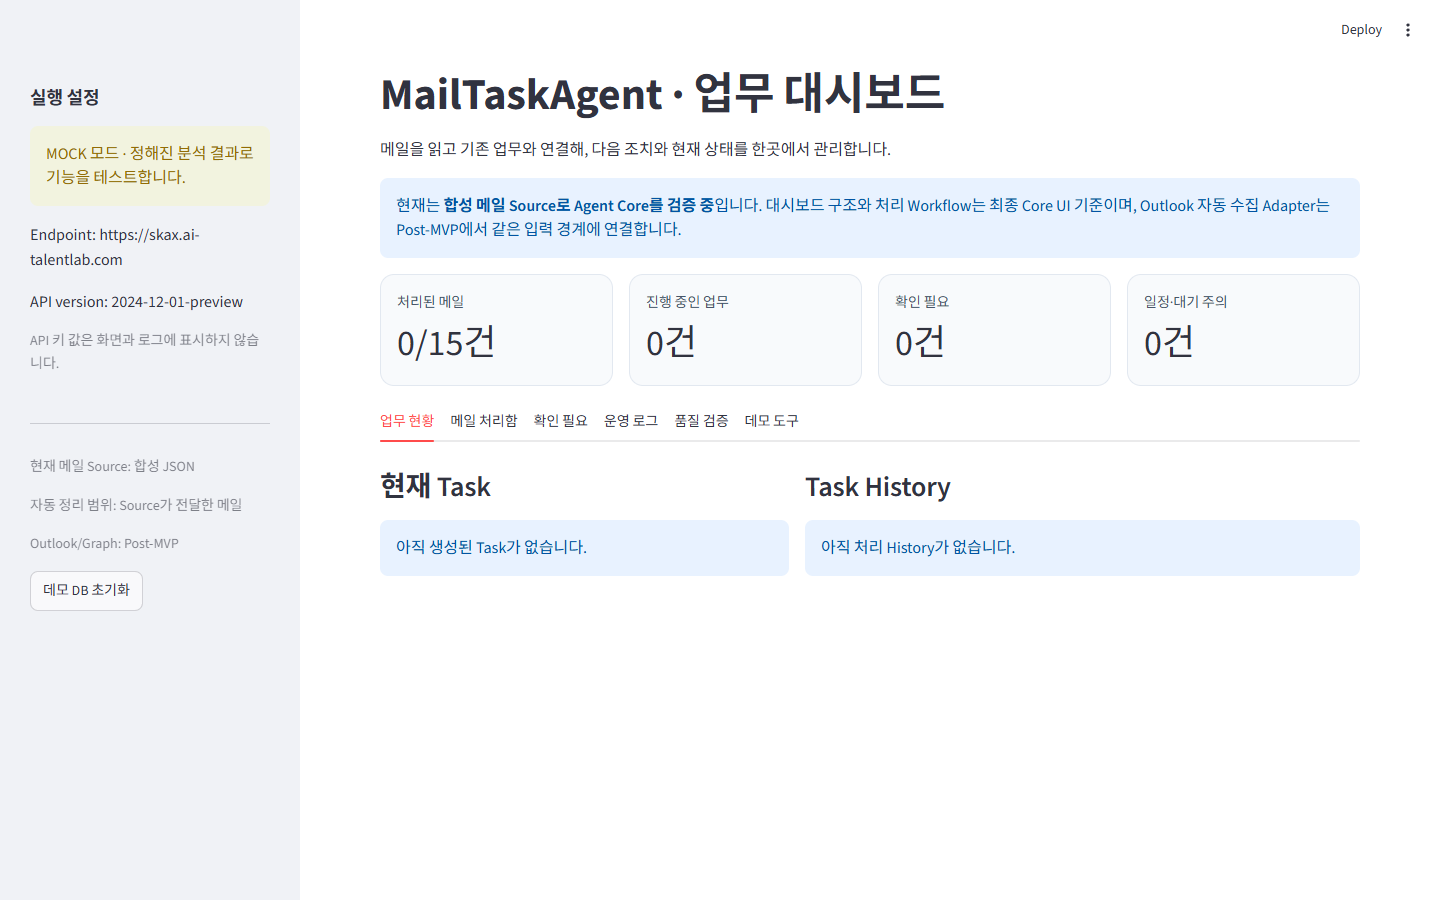
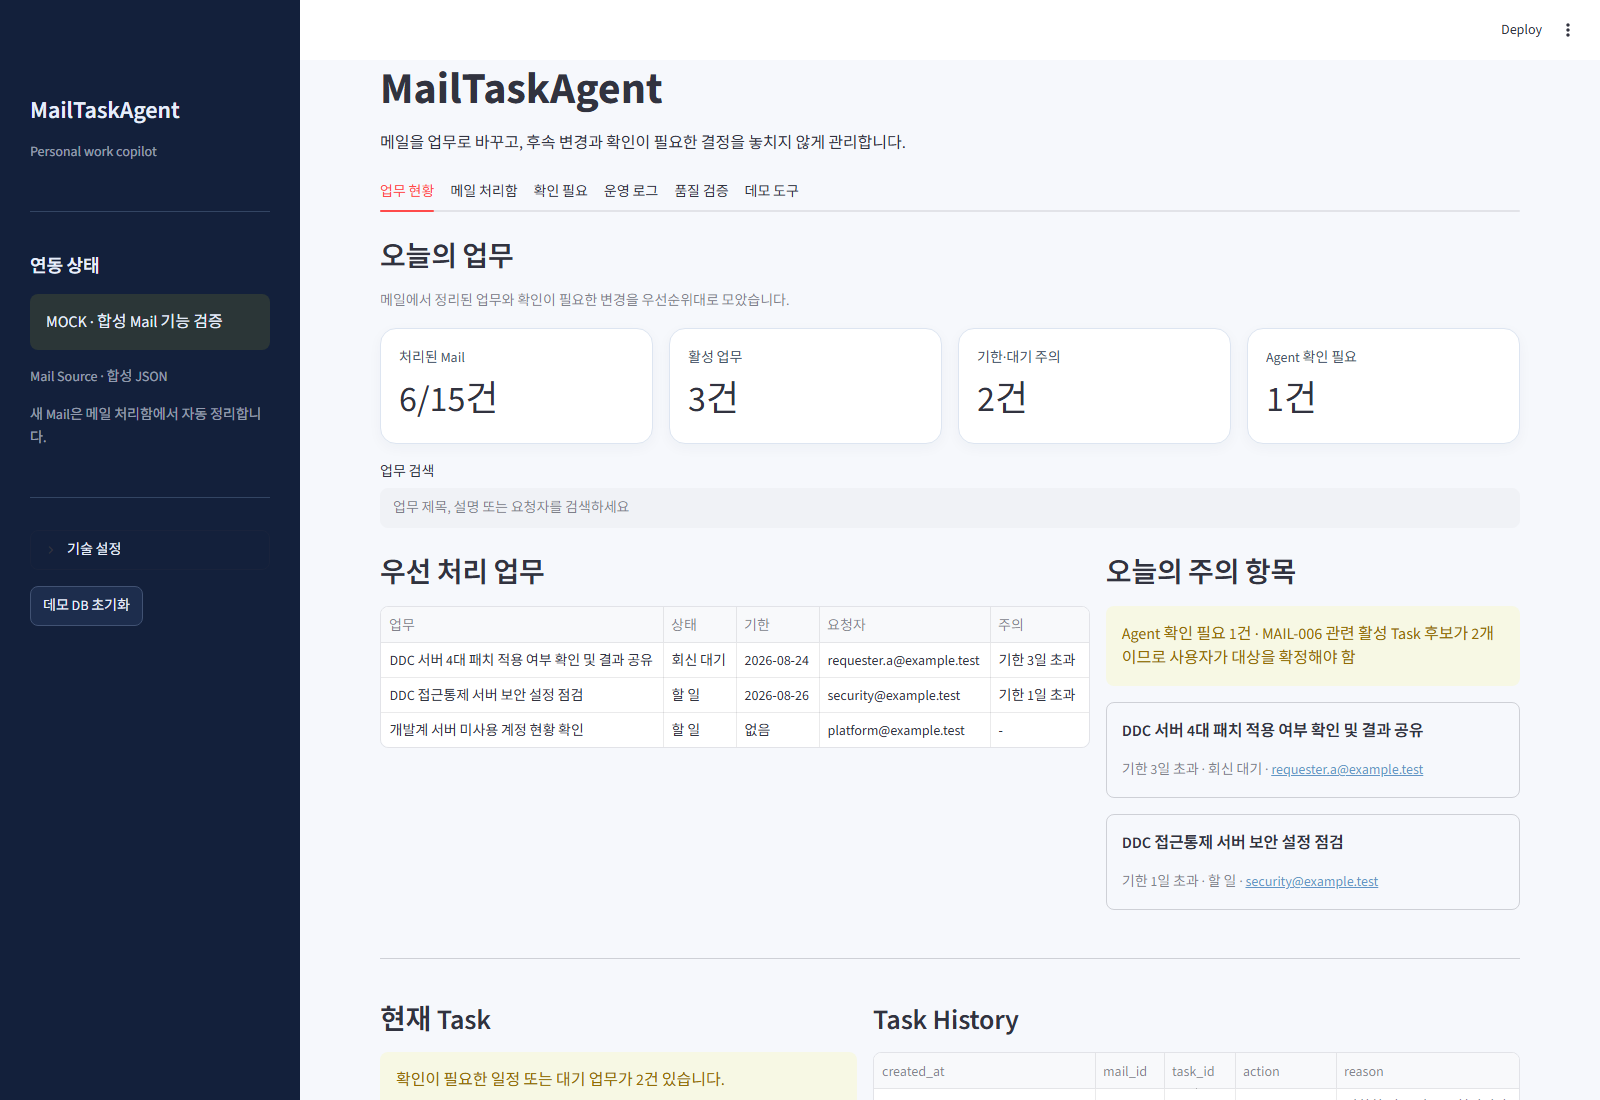
feat: polish final MVP dashboard

diff --git a/src/mailtaskagent/ui.py b/src/mailtaskagent/ui.py
@@ -78,16 +78,29 @@ def _apply_styles() -> None:
     st.markdown(
         """
         <style>
-        .block-container {padding-top: 2rem; padding-bottom: 3rem; max-width: 1500px;}
+        .stApp {background: #f6f8fc;}
+        .block-container {padding-top: 1.6rem; padding-bottom: 3rem; max-width: 1480px;}
+        [data-testid="stSidebar"] {background: #13203b; border-right: 0;}
+        [data-testid="stSidebar"] h1,
+        [data-testid="stSidebar"] h2,
+        [data-testid="stSidebar"] h3,
+        [data-testid="stSidebar"] p,
+        [data-testid="stSidebar"] label {color: #e7eefc;}
+        [data-testid="stSidebar"] button {
+            border-color: #415273; color: #e7eefc; background: #1d2d4d;
+        }
+        [data-testid="stSidebar"] hr {border-color: #334563;}
         [data-testid="stMetric"] {
-            background: #f8fafc; border: 1px solid #e2e8f0; border-radius: 14px;
-            padding: 14px 16px;
+            background: #ffffff; border: 1px solid #dde5f1; border-radius: 16px;
+            padding: 16px 18px; box-shadow: 0 4px 14px rgba(20, 40, 80, 0.04);
         }
         [data-testid="stMetricLabel"] {color: #475569;}
+        button[data-baseweb="tab"] {font-weight: 650; padding-left: 14px; padding-right: 14px;}
+        button[data-baseweb="tab"][aria-selected="true"] {color: #3157d5;}
         div[data-testid="stStatusWidget"] {border-radius: 14px;}
         .mail-card {
-            padding: 16px 18px; border-radius: 14px; background: #f8fafc;
-            border: 1px solid #e2e8f0; margin-bottom: 12px;
+            padding: 16px 18px; border-radius: 14px; background: #ffffff;
+            border: 1px solid #dde5f1; margin-bottom: 12px;
         }
         .mail-card small {color: #64748b;}
         </style>
@@ -150,6 +163,101 @@ def _task_attention(task: dict) -> str:
         if waiting_days >= 3:
             return f"회신 {waiting_days}일 대기"
     return "-"
+
+
+def _task_priority(task: dict) -> tuple[int, str, str]:
+    attention = _task_attention(task)
+    if "초과" in attention:
+        rank = 0
+    elif "오늘" in attention or "남음" in attention:
+        rank = 1
+    elif "대기" in attention:
+        rank = 2
+    else:
+        rank = 3
+    return rank, task.get("due_date") or "9999-12-31", task["task_id"]
+
+
+def _render_product_dashboard(storage, total_mail_count: int) -> None:
+    tasks = storage.list_tasks()
+    pending_reviews = storage.list_pending_reviews()
+    processed_count = len(storage.list_processing_results())
+    active_tasks = [
+        task for task in tasks if task["status"] not in {"COMPLETED", "CANCELLED"}
+    ]
+    attention_tasks = [task for task in active_tasks if _task_attention(task) != "-"]
+
+    st.subheader("오늘의 업무")
+    st.caption("메일에서 정리된 업무와 확인이 필요한 변경을 우선순위대로 모았습니다.")
+    summary_1, summary_2, summary_3, summary_4 = st.columns(4)
+    summary_1.metric("처리된 Mail", f"{processed_count}/{total_mail_count}건")
+    summary_2.metric("활성 업무", f"{len(active_tasks)}건")
+    summary_3.metric("기한·대기 주의", f"{len(attention_tasks)}건")
+    summary_4.metric("Agent 확인 필요", f"{len(pending_reviews)}건")
+
+    search_text = st.text_input(
+        "업무 검색",
+        placeholder="업무 제목, 설명 또는 요청자를 검색하세요",
+        key="dashboard_task_search",
+    ).strip().casefold()
+    filtered_tasks = active_tasks
+    if search_text:
+        filtered_tasks = [
+            task
+            for task in active_tasks
+            if search_text
+            in " ".join(
+                filter(
+                    None,
+                    [task.get("title"), task.get("description"), task.get("requester")],
+                )
+            ).casefold()
+        ]
+
+    priority_col, attention_col = st.columns([1.7, 1])
+    with priority_col:
+        st.markdown("### 우선 처리 업무")
+        prioritized = sorted(filtered_tasks, key=_task_priority)
+        if prioritized:
+            priority_frame = pd.DataFrame(
+                [
+                    {
+                        "업무": task["title"],
+                        "상태": STATUS_LABELS.get(task["status"], task["status"]),
+                        "기한": task.get("due_date") or "없음",
+                        "요청자": task.get("requester") or "-",
+                        "주의": _task_attention(task),
+                    }
+                    for task in prioritized
+                ]
+            )
+            st.dataframe(priority_frame, width="stretch", hide_index=True)
+        elif search_text:
+            st.info("검색 조건에 맞는 활성 업무가 없습니다.")
+        else:
+            st.info("메일을 처리하면 우선순위 업무가 여기에 표시됩니다.")
+
+    with attention_col:
+        st.markdown("### 오늘의 주의 항목")
+        if pending_reviews:
+            first_review = pending_reviews[0]
+            st.warning(
+                f"Agent 확인 필요 {len(pending_reviews)}건 · "
+                f"{first_review['mail_id']} {first_review['proposal']['reason']}"
+            )
+        for task in sorted(attention_tasks, key=_task_priority)[:3]:
+            with st.container(border=True):
+                st.markdown(f"**{task['title']}**")
+                st.caption(
+                    f"{_task_attention(task)} · "
+                    f"{STATUS_LABELS.get(task['status'], task['status'])} · "
+                    f"{task.get('requester') or '요청자 없음'}"
+                )
+        if not pending_reviews and not attention_tasks:
+            st.success("지금 확인이 필요한 변경이나 일정 경고가 없습니다.")
+
+    st.divider()
+    _render_tasks_and_histories(storage)
 
 
 def _render_agent_result(result: dict) -> None:
@@ -1082,41 +1190,26 @@ def main() -> None:
     mails = load_mails(PROJECT_ROOT / "data" / "dummy_mails.json")
     mail_by_id = {mail.mail_id: mail for mail in mails}
 
-    st.title("MailTaskAgent · 업무 대시보드")
-    st.write("메일을 읽고 기존 업무와 연결해, 다음 조치와 현재 상태를 한곳에서 관리합니다.")
-
-    st.info(
-        "현재는 **합성 메일 Source로 Agent Core를 검증 중**입니다. "
-        "대시보드 구조와 처리 Workflow는 최종 Core UI 기준이며, "
-        "Outlook 자동 수집 Adapter는 Post-MVP에서 같은 입력 경계에 연결합니다."
-    )
-
-    tasks = storage.list_tasks()
-    pending_reviews = storage.list_pending_reviews()
-    processed_count = len(storage.list_processing_results())
-    active_tasks = [task for task in tasks if task["status"] not in {"COMPLETED", "CANCELLED"}]
-    attention_count = sum(_task_attention(task) != "-" for task in active_tasks)
-    summary_1, summary_2, summary_3, summary_4 = st.columns(4)
-    summary_1.metric("처리된 메일", f"{processed_count}/{len(mails)}건")
-    summary_2.metric("진행 중인 업무", f"{len(active_tasks)}건")
-    summary_3.metric("확인 필요", f"{len(pending_reviews)}건")
-    summary_4.metric("일정·대기 주의", f"{attention_count}건")
+    st.title("MailTaskAgent")
+    st.write("메일을 업무로 바꾸고, 후속 변경과 확인이 필요한 결정을 놓치지 않게 관리합니다.")
 
     with st.sidebar:
-        st.subheader("실행 설정")
-        if settings.use_mock:
-            st.warning("MOCK 모드 · 정해진 분석 결과로 기능을 테스트합니다.")
-        else:
-            st.success(f"LIVE 모드 · {settings.model}")
-        st.text(f"Endpoint: {settings.api_url}")
-        st.text(f"API version: {settings.api_version}")
-        st.caption("API 키 값은 화면과 로그에 표시하지 않습니다.")
+        st.title("MailTaskAgent")
+        st.caption("Personal work copilot")
         st.divider()
-        st.caption(
-            "현재 메일 Source: 합성 JSON\n\n"
-            "자동 정리 범위: Source가 전달한 메일\n\n"
-            "Outlook/Graph: Post-MVP"
-        )
+        st.subheader("연동 상태")
+        if settings.use_mock:
+            st.warning("MOCK · 합성 Mail 기능 검증")
+        else:
+            st.success(f"LIVE · {settings.model}")
+        st.caption("Mail Source · 합성 JSON")
+        st.caption("현재 합성 Mail은 메일 처리함에서 일괄 자동 정리합니다.")
+        st.divider()
+        with st.expander("기술 설정"):
+            st.text(f"Endpoint: {settings.api_url}")
+            st.text(f"API version: {settings.api_version}")
+            st.caption("API 키 값은 화면과 로그에 표시하지 않습니다.")
+            st.caption("Outlook/Graph · Post-MVP")
         if st.button("데모 DB 초기화", type="secondary"):
             storage.reset()
             st.session_state.pop("last_result", None)
@@ -1135,7 +1228,7 @@ def main() -> None:
     )
 
     with dashboard_tab:
-        _render_tasks_and_histories(storage)
+        _render_product_dashboard(storage, len(mails))
 
     with mailbox_tab:
         _render_mailbox(storage, settings, mails)

diff --git a/README.md b/README.md
@@ -15,7 +15,8 @@
 - Pydantic 구조화 결과 검증
 - 잘못된 LLM 구조화 출력 1회 재시도
 - SQLite Task/History/중복 처리
-- 제품형 업무 현황, 메일 처리함, 확인 필요, 운영 로그 Dashboard
+- `오늘의 업무` 요약·우선순위·주의 항목을 중심으로 한 제품형 업무 현황과
+  메일 처리함, 확인 필요, 운영 로그 Dashboard
 - Mock 회귀와 회사 LLM Live를 구분한 15개 시나리오 품질 검증 Dashboard
 - 2026-08-27 회사 LLM Live 평가 15/15 Case·28/28 Action 단계 일치 증적
 - 세부 Ground Truth 기준 업무 요청 분류 15/15, 요청사항·기한 26/26,
@@ -71,11 +72,11 @@ Copy-Item .env.example .env
 .venv\Scripts\python.exe -m mailtaskagent.evaluation_cli --mode MOCK
 ```
 
-브라우저에서 `http://localhost:8501`을 연다. 기본 화면은 실제 제품 흐름에 가까운
-`업무 현황`이며, `메일 처리함`에서 Source로 들어온 합성메일 전체의 분류와 처리 결과를
-확인하거나 미처리 메일을 한 번에 자동 정리할 수 있다. 멘토용 재현 버튼은 `데모 도구`로
-분리했다. `품질 검증`에서는 Mock 15개 회귀를 즉시 실행하고, LIVE 모드에서는 같은
-기대값으로 회사 LLM 결과를 별도 검증할 수 있다.
+브라우저에서 `http://localhost:8501`을 연다. 기본 `업무 현황`은 `오늘의 업무` 요약,
+우선 처리 업무, 기한·회신 대기 주의 항목과 확인 대기 건을 먼저 보여준다. `메일 처리함`에서는
+Source로 들어온 합성메일 전체의 분류와 처리 결과를 확인하거나 미처리 메일을 한 번에 자동
+정리할 수 있다. 멘토용 재현 버튼은 `데모 도구`로 분리했다. `품질 검증`에서는 Mock 15개
+회귀를 즉시 실행하고, LIVE 모드에서는 같은 기대값으로 회사 LLM 결과를 별도 검증할 수 있다.
 
 회사 LLM Live 전체 평가는 API 호출이 발생하므로 필요할 때만 아래처럼 실행한다.
 

diff --git a/Docs/AI_MASTER/07_E2E서비스개발.md b/Docs/AI_MASTER/07_E2E서비스개발.md
@@ -2,7 +2,7 @@
 
 * **완성된 아키텍처 핵심:** 합성 Mail 입력부터 회사 LLM 의미 분석, Metadata 기반 Task 후보 검색, Python Application Logic의 7개 Action 결정, Pydantic Validation, Human-in-the-loop, SQLite Task·History 저장, Streamlit Dashboard까지 연결한 단일 Agent Core E2E
 
-* **최종 산출물 형태:** 로컬 Streamlit 기반 개인 업무관리 Dashboard. `업무 현황`, `메일 처리함`, `확인 필요`, `운영 로그`, `품질 검증`, `데모 도구` 화면에서 Mail 처리 결과와 Task Lifecycle을 관리합니다.
+* **최종 산출물 형태:** 로컬 Streamlit 기반 개인 업무관리 Dashboard. 기본 `업무 현황`에서 `오늘의 업무` 요약, 우선 처리 업무, 기한·회신 대기 주의 항목과 확인 대기 건을 먼저 보여주고, `메일 처리함`, `확인 필요`, `운영 로그`, `품질 검증`, `데모 도구` 화면에서 Mail 처리 결과와 Task Lifecycle을 관리합니다.
 
 * **Agent 구조:**
 
@@ -93,7 +93,7 @@ LLM은 Mail 의미 분석을 담당하고 DB를 직접 변경하지 않습니다
 
 * 현재 Mail Source는 합성 JSON이며 실제 Gmail 또는 Outlook Mailbox 자동 수집은 연결하지 않았습니다.
 
-* Streamlit은 Core Workflow 검증에 적합하지만 다중 사용자, 인증, 운영 배포와 고도화된 제품 UI는 추가 개발이 필요합니다.
+* 현재 Streamlit 화면은 개발용 입력 중심 화면에서 `오늘의 업무` 중심 Core 제품형 Dashboard로 개선했지만, 다중 사용자, 인증, 운영 배포와 상용 수준 반응형 UI는 추가 개발이 필요합니다.
 
 ### Next Step
 

diff --git a/Docs/IMPLEMENTATION/05_3단계_최종_E2E_구현범위.md b/Docs/IMPLEMENTATION/05_3단계_최종_E2E_구현범위.md
@@ -128,7 +128,8 @@
 - 대표 Business Case 15개와 입력/기대결과 분리
 - 기한 단축 `ASK_USER`와 사용자 날짜 수정 후 승인·거절
 - 불명확한 완료 표현과 모호한 기한의 자동 반영 차단
-- 제품형 `업무 현황`, `메일 처리함`, `확인 필요`, `운영 로그` UI
+- `오늘의 업무` 요약·우선순위·주의 항목을 기본 화면으로 한 제품형 `업무 현황`,
+  `메일 처리함`, `확인 필요`, `운영 로그` UI
 - 입력 Source의 미처리 합성메일 15건 전체 자동 정리와 Case별 실패 격리
 - Task 연결 후보별 매칭 점수와 근거 표시
 - Dashboard Task 직접 수정·완료·취소와 전·후 History 저장
@@ -148,6 +149,8 @@
   Agent 시간 비교 UI. 수동 판단 6/6일 때만 시간 KPI 산정
 - 동일 Thread 선행 Mail·선택 Task History Context 조회와 처리 결과 표시
 - 5개 Task 상태 허용 전이 공통 Guard, 실패 Mail 표시와 재처리 UI
+- 데이터가 채워진 제품형 Dashboard 실제 렌더 캡처 `prototype/current_streamlit_ui.png`
+  및 Streamlit 화면 Exception 0건 확인
 
 ### 아직 최종 완료로 선언하지 않는 항목
 

diff --git a/Docs/IMPLEMENTATION/06_테스트_전략_및_케이스.md b/Docs/IMPLEMENTATION/06_테스트_전략_및_케이스.md
@@ -147,6 +147,8 @@ DB/History 확인:
 - 동일 Thread 선행 Mail과 선택 Task 최근 History Context 조회 검증
 - 완료·취소 Terminal 상태의 잘못된 재개 차단 및 Transaction·History 무변경 검증
 - 실패 Mail `실패 · 재처리 가능` 표시 후 재처리 성공, 화면 Exception 0건
+- 제품형 기본 Dashboard 스모크: 처리 Mail·활성 업무·기한/대기 주의·사용자 확인 지표,
+  업무 검색, 우선 처리 업무와 주의 항목 렌더링, 화면 Exception 0건
 
 이 결과는 현재 구현 증적이다. 합성 Dataset의 Mock과 회사 LLM Live 모두 BC-01~BC-15
 기대 Action 흐름을 통과했다. 사용자 확인 46.7%는 완료·취소·기한 단축·모호성 Case를

diff --git a/Docs/AI_MASTER/02_문제정의및서비스기획.md b/Docs/AI_MASTER/02_문제정의및서비스기획.md
@@ -116,7 +116,7 @@ KPI는 핵심 사용자 시나리오 3개를 세분화한 대표 Business Case 1
 
 #### 4. 업무관리 Dashboard 및 사용자 개입
 
-- Streamlit Dashboard에서 업무 현황, Mail 처리함, 확인 필요, 운영 로그와 품질 검증 결과를 확인한다.
+- Streamlit Dashboard의 `오늘의 업무`에서 처리 현황, 우선 처리 업무, 기한·회신 대기 주의 항목과 사용자 확인 대기를 먼저 확인하고, Mail 처리함, 운영 로그와 품질 검증 화면에서 세부 결과를 추적한다.
 - 사용자는 Task를 조회·수정하고 중요 변경을 승인·수정·거절할 수 있다.
 
 #### 5. 기한 및 대기 업무 관리
